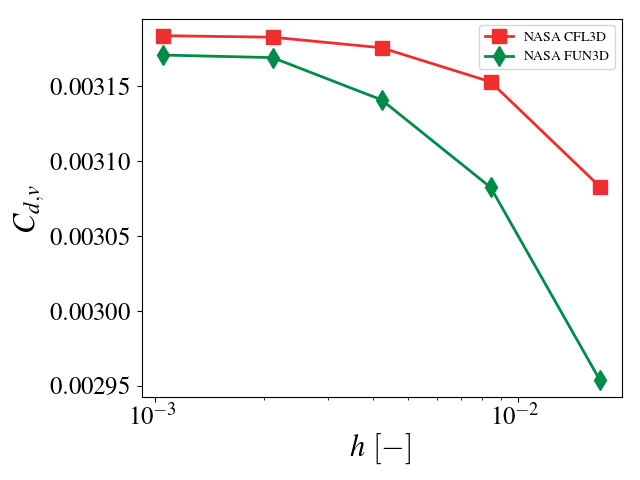
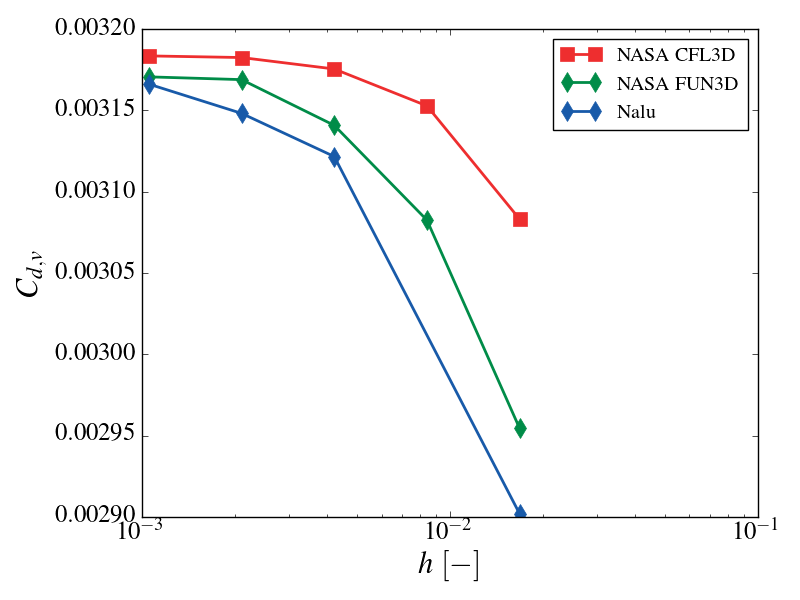
Uploading the updating plots with the Nalu results added in.

diff --git a/plot_verification.py b/plot_verification.py
@@ -26,7 +26,9 @@ cmap = ['#EE2E2F', '#008C48', '#185AA9', '#F47D23',
 dashseq = [(None, None), [10, 5], [10, 4, 3, 4], [
     3, 3], [10, 4, 3, 4, 3, 4], [3, 3], [3, 3]]
 markertype = ['s', 'd', 'o', 'p', 'h']
-
+# scale is used to adjust issues in pp.py area lengthscale without having
+# to rerun
+scale = 4.0/3.0
 
 # ========================================================================
 #
@@ -173,20 +175,20 @@ if __name__ == '__main__':
 
     subdf = df[np.fabs(df['xslice'] - 0.75) < 1e-14]
     plt.figure(0)
-    plt.semilogx(subdf['h'], subdf['cf'], lw=2, color=cmap[1],
-                 marker=markertype[1], mec=cmap[1], mfc=cmap[1], ms=10,
+    plt.semilogx(subdf['h'], subdf['cf'], lw=2, color=cmap[2],
+                 marker=markertype[1], mec=cmap[2], mfc=cmap[2], ms=10,
                  label='Nalu')
 
     subdf = df[np.fabs(df['xslice'] - 0.6321975) < 1e-14]
     plt.figure(1)
-    plt.semilogx(subdf['h'], subdf['cf'], lw=2, color=cmap[1],
-                 marker=markertype[1], mec=cmap[1], mfc=cmap[1], ms=10,
+    plt.semilogx(subdf['h'], subdf['cf'], lw=2, color=cmap[2],
+                 marker=markertype[1], mec=cmap[2], mfc=cmap[2], ms=10,
                  label='Nalu')
 
     subdf = df[np.fabs(df['xslice'] - 0.8678025) < 1e-14]
     plt.figure(2)
-    plt.semilogx(subdf['h'], subdf['cf'], lw=2, color=cmap[1],
-                 marker=markertype[1], mec=cmap[1], mfc=cmap[1], ms=10,
+    plt.semilogx(subdf['h'], subdf['cf'], lw=2, color=cmap[2],
+                 marker=markertype[1], mec=cmap[2], mfc=cmap[2], ms=10,
                  label='Nalu')
 
     # Other coefficients
@@ -194,30 +196,30 @@ if __name__ == '__main__':
     df = pd.read_csv(fname)
 
     plt.figure(3)
-    plt.semilogx(df['h'], df['cd'], lw=2, color=cmap[1], marker=markertype[1],
-                 mec=cmap[1], mfc=cmap[1], ms=10, label='Nalu')
+    plt.semilogx(df['h'], df['cd']*scale, lw=2, color=cmap[2], marker=markertype[1],
+                 mec=cmap[2], mfc=cmap[2], ms=10, label='Nalu')
 
     plt.figure(4)
-    plt.semilogx(df['h'], df['cdp'], lw=2, color=cmap[1], marker=markertype[1],
-                 mec=cmap[1], mfc=cmap[1], ms=10, label='Nalu')
+    plt.semilogx(df['h'], df['cdp']*scale, lw=2, color=cmap[2], marker=markertype[1],
+                 mec=cmap[2], mfc=cmap[2], ms=10, label='Nalu')
 
     plt.figure(5)
-    plt.semilogx(df['h'], df['cdv'], lw=2, color=cmap[1], marker=markertype[1],
-                 mec=cmap[1], mfc=cmap[1], ms=10, label='Nalu')
+    plt.semilogx(df['h'], df['cdv']*scale, lw=2, color=cmap[2], marker=markertype[1],
+                 mec=cmap[2], mfc=cmap[2], ms=10, label='Nalu')
 
     plt.figure(6)
-    plt.semilogx(df['h'], df['cl'], lw=2, color=cmap[1], marker=markertype[1],
-                 mec=cmap[1], mfc=cmap[1], ms=10, label='Nalu')
+    plt.semilogx(df['h'], df['cl']*scale, lw=2, color=cmap[2], marker=markertype[1],
+                 mec=cmap[2], mfc=cmap[2], ms=10, label='Nalu')
 
     # wall cf and cp
     df = pd.read_csv('1409x641/results/wall_coeffs.dat')
 
     plt.figure(7)
-    p = plt.plot(df['x'], df['cf'], lw=2, color=cmap[1], label='Nalu')
+    p = plt.plot(df['x'], df['cf'], lw=2, color=cmap[2], label='Nalu')
     p[0].set_dashes(dashseq[1])
 
     plt.figure(8)
-    p = plt.plot(df['x'], df['cp'], lw=2, color=cmap[1], label='Nalu')
+    p = plt.plot(df['x'], df['cp'], lw=2, color=cmap[2], label='Nalu')
     p[0].set_dashes(dashseq[1])
 
     # ========================================================================

diff --git a/pp.py b/pp.py
@@ -213,7 +213,7 @@ if __name__ == '__main__':
         ouname = os.path.join(rdir, 'yp_up.dat')
 
         # Derived quantities
-        L = 2.0
+        L = 1.5 
         W = 1.0
         area = L * W
         u0, rho0, mu = parse_ic(yname)
